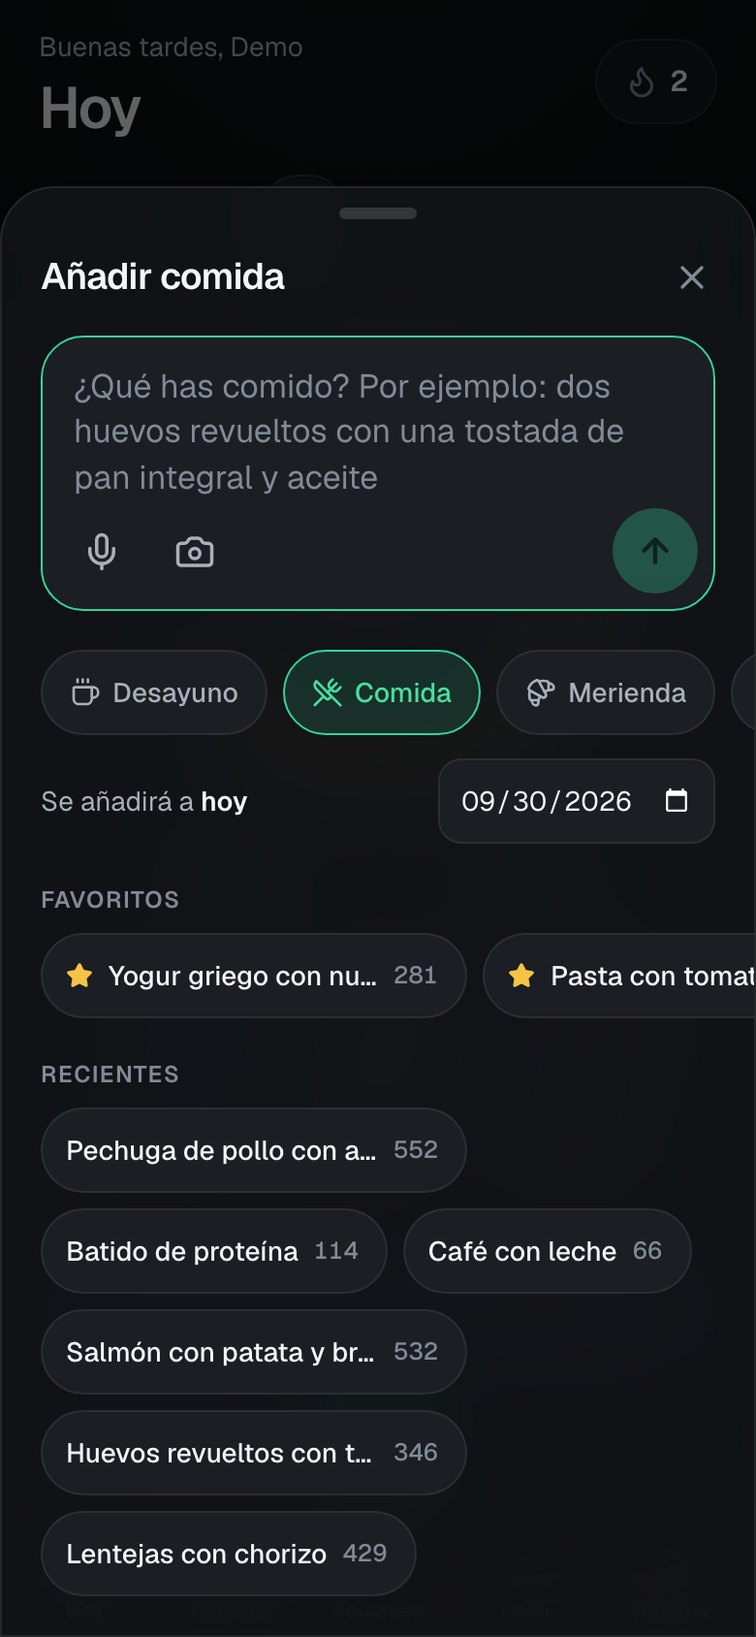
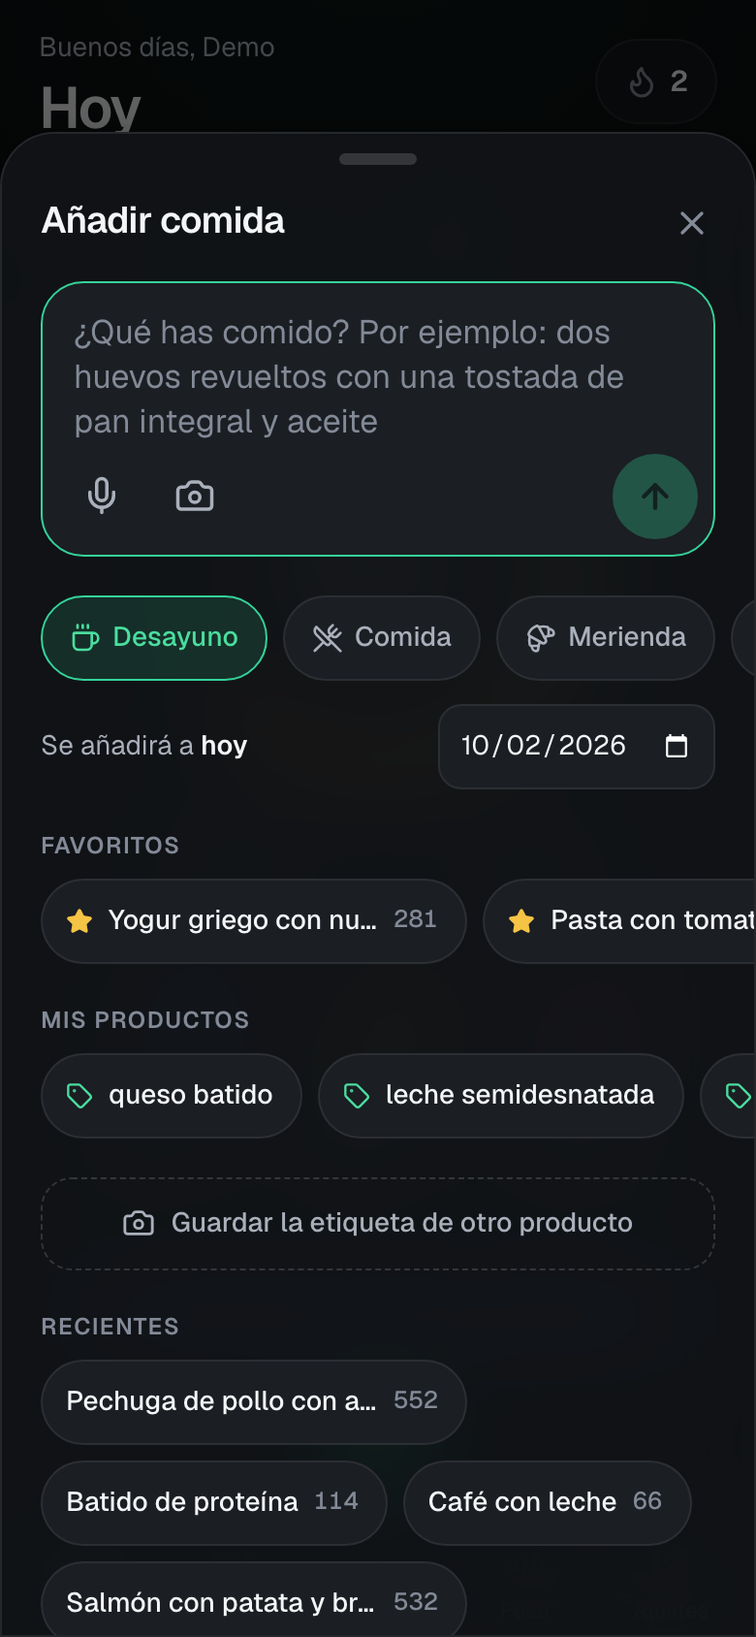
docs: productos con etiqueta en el README, capturas y GIF nuevos; etiquetas a dos decimales
- README: función, diagrama del ahorro de IA con el paso de productos, capturas y pruebas
- Las cifras de la etiqueta conservan dos decimales (0,12 g de sal) y las kcal calculadas desde kJ
  se redondean a entero, como se imprimen
- Etiquetas de prueba de leche y queso; la IA simulada devuelve la etiqueta que se le pida

diff --git a/frontend/src/components/ProductSheet.tsx b/frontend/src/components/ProductSheet.tsx
@@ -122,7 +122,7 @@ function NumberBox({
           invalid ? 'border-warn' : 'border-border',
         )}
       >
-        <NumberInput value={value} onChange={onChange} decimals={1} min={0} max={max} ariaLabel={label} className="h-full min-w-0 flex-1 text-text" />
+        <NumberInput value={value} onChange={onChange} decimals={2} min={0} max={max} ariaLabel={label} className="h-full min-w-0 flex-1 text-text" />
         <span className="ml-1.5 text-[13.5px] text-text-3">{suffix}</span>
       </span>
     </label>

diff --git a/scripts/capture_screenshots.py b/scripts/capture_screenshots.py
@@ -9,6 +9,7 @@ en un móvil de 390 px, en oscuro y en claro. Los datos de las capturas son de d
 y no salen de esta máquina: nada de esto se usa en producción.
 """
 
+import json
 import os
 import random
 import shutil
@@ -21,12 +22,16 @@ from pathlib import Path
 
 ROOT = Path(__file__).resolve().parent.parent
 sys.path.insert(0, str(ROOT / "e2e"))
+sys.path.insert(0, str(ROOT / "scripts"))
 
+import httpx  # noqa: E402
 from conftest import DIST, free_port, wait_for  # noqa: E402
+from make_label_photo import make as make_label  # noqa: E402
 from playwright.sync_api import Page, sync_playwright  # noqa: E402
 
 OUT = ROOT / "docs" / "screenshots"
 PASSWORD = "demo-password-1"
+AI_URL = ""  # se rellena al arrancar: la IA simulada que lee las etiquetas
 MOBILE = {"width": 390, "height": 844}
 
 # Comidas de la despensa de demostración: la IA simulada las conoce por palabras clave.
@@ -64,7 +69,7 @@ def start_servers() -> tuple[dict, list[subprocess.Popen], Path]:
     ]
     wait_for(f"http://127.0.0.1:{ai_port}/calls")
     wait_for(f"http://127.0.0.1:{app_port}/api/health")
-    return {"app": f"http://127.0.0.1:{app_port}"}, procs, data
+    return {"app": f"http://127.0.0.1:{app_port}", "ai": f"http://127.0.0.1:{ai_port}"}, procs, data
 
 
 def onboard(page: Page, base: str, out: Path) -> None:
@@ -151,6 +156,19 @@ def seed(page: Page, base: str) -> None:
     for dish in rq.get(f"{base}/api/dishes").json()["dishes"][:3]:
         rq.patch(f"{base}/api/dishes/{dish['id']}", data={"favorite": True})
     rq.post(f"{base}/api/targets/recalculate")
+    for kind in ("yogur", "leche", "queso"):
+        add_product(page, base, kind)
+
+
+def add_product(page: Page, base: str, kind: str) -> None:
+    """Lee la etiqueta (IA simulada) y guarda el producto con su foto, como hace la app."""
+    rq = page.request
+    httpx.post(f"{AI_URL}/next-label", params={"kind": kind})
+    photo = {"name": "etiqueta.jpg", "mimeType": "image/jpeg", "buffer": make_label(kind)}
+    draft = rq.post(f"{base}/api/products/scan", multipart={"image": photo}).json()["draft"]
+    fields = ("name", "alias", "basis", "kcal100", "protein100", "carbs100", "fat100", "fiber100", "sugars100", "salt100", "unit_label", "unit_grams")
+    created = rq.post(f"{base}/api/products", multipart={"data": json.dumps({k: draft[k] for k in fields}), "image": photo})
+    assert created.status == 201, created.text()
 
 
 def capture_theme(browser, base: str, theme: str) -> None:
@@ -184,6 +202,26 @@ def capture_theme(browser, base: str, theme: str) -> None:
         page.get_by_role("heading", name=name, exact=True).wait_for()
         page.wait_for_timeout(2400)
         page.screenshot(path=str(out / f"{file}.png"))
+
+    # Productos: la lista con la foto de cada etiqueta, la hoja de revisión y «dos yogures ligeros».
+    page.get_by_role("link", name="Historial").click()
+    page.get_by_role("radio", name="Productos").click()
+    page.get_by_text("Tus productos").wait_for()
+    page.wait_for_timeout(1800)
+    page.screenshot(path=str(out / "09-productos.png"))
+    page.get_by_text("Yogur desnatado ligero sabor limón").first.click()
+    page.get_by_role("heading", name="Editar producto").wait_for()
+    page.wait_for_timeout(1200)
+    page.screenshot(path=str(out / "10-etiqueta.png"))
+    page.keyboard.press("Escape")
+    page.wait_for_timeout(500)
+    page.get_by_role("link", name="Hoy").click()
+    page.get_by_role("button", name="Añadir comida").last.click()
+    page.locator("#meal-text").fill("dos yogures ligeros con una manzana")
+    page.get_by_role("button", name="Analizar comida").click()
+    page.get_by_role("heading", name="Revisa y guarda").wait_for()
+    page.wait_for_timeout(1400)
+    page.screenshot(path=str(out / "11-dos-yogures.png"))
     context.close()
 
 
@@ -231,6 +269,68 @@ def record_gif(browser, base: str) -> None:
     print(f"· {gif.relative_to(ROOT)} ({gif.stat().st_size / 1024:.0f} KB)")
 
 
+def record_label_gif(browser, base: str) -> None:
+    """Graba el flujo de productos: foto de la etiqueta -> lectura -> revisión -> «tres galletas integrales»."""
+    video_dir = Path(tempfile.mkdtemp(prefix="kcalia-video-"))
+    photo = Path(tempfile.mkdtemp(prefix="kcalia-label-")) / "etiqueta.jpg"
+    photo.write_bytes(make_label("galletas"))
+    httpx.post(f"{AI_URL}/next-label", params={"kind": "galletas"})
+    context = browser.new_context(
+        viewport=MOBILE, device_scale_factor=1, is_mobile=True, has_touch=True, locale="es-ES", timezone_id="Europe/Madrid",
+        record_video_dir=str(video_dir), record_video_size=MOBILE,
+    )
+    context.set_default_timeout(20_000)
+    context.add_init_script("localStorage.setItem('kcalia:theme', 'dark')")
+    page = context.new_page()
+    page.goto(base)
+    page.locator("input[name=username]").fill("demo")
+    page.locator("input[name=password]").fill(PASSWORD)
+    page.get_by_role("button", name="Entrar").click()
+    page.locator("main").wait_for()
+    page.wait_for_timeout(1800)
+
+    page.get_by_role("link", name="Historial").click()
+    page.get_by_role("radio", name="Productos").click()
+    page.get_by_text("Tus productos").wait_for()
+    page.wait_for_timeout(1500)
+    page.get_by_role("button", name="Añadir", exact=True).click()
+    page.get_by_text("Hacer foto a la etiqueta").wait_for()
+    page.wait_for_timeout(1700)
+    page.locator("input[type=file]:not([capture])").set_input_files(str(photo))
+    page.get_by_role("heading", name="Revisa la etiqueta").wait_for()
+    page.wait_for_timeout(2800)
+    page.get_by_role("button", name="Guardar producto").click()
+    page.get_by_text("Guardado: galletas integrales").wait_for()
+    page.wait_for_timeout(1500)
+
+    page.get_by_role("link", name="Hoy").click()
+    page.wait_for_timeout(900)
+    page.get_by_role("button", name="Añadir comida").last.click()
+    page.locator("#meal-text").wait_for()
+    page.wait_for_timeout(500)
+    page.locator("#meal-text").press_sequentially("tres galletas integrales", delay=70)
+    page.wait_for_timeout(500)
+    page.get_by_role("button", name="Analizar comida").click()
+    page.get_by_text("Sin IA · con tu etiqueta").wait_for()
+    page.wait_for_timeout(2600)
+    page.get_by_role("button", name=" Guardar ·").click()
+    page.wait_for_timeout(2200)
+    context.close()
+
+    video = next(video_dir.glob("*.webm"))
+    gif = ROOT / "docs" / "demo-etiqueta.gif"
+    subprocess.run(
+        [
+            "ffmpeg", "-y", "-loglevel", "error", "-ss", "1.8", "-i", str(video),
+            "-vf", "fps=10,scale=280:-1:flags=lanczos,split[a][b];[a]palettegen=max_colors=80:stats_mode=diff[p];[b][p]paletteuse=dither=bayer:bayer_scale=5",
+            str(gif),
+        ],
+        check=True,
+    )
+    shutil.rmtree(video_dir, ignore_errors=True)
+    print(f"· {gif.relative_to(ROOT)} ({gif.stat().st_size / 1024:.0f} KB)")
+
+
 def build_hero() -> None:
     """Cuatro pantallas en oscuro y cuatro en claro, en una sola imagen para la cabecera del README."""
     from PIL import Image, ImageDraw, ImageFilter
@@ -267,8 +367,9 @@ def main() -> None:
         raise SystemExit("Falta el frontend compilado: cd frontend && npm run build")
     shutil.rmtree(OUT, ignore_errors=True)
     OUT.mkdir(parents=True, exist_ok=True)
+    global AI_URL
     servers, procs, data = start_servers()
-    base = servers["app"]
+    base, AI_URL = servers["app"], servers["ai"]
     try:
         with sync_playwright() as p:
             browser = p.chromium.launch()
@@ -285,6 +386,7 @@ def main() -> None:
             capture_theme(browser, base, "light")
             # El GIF va al final para que "ensalada de atún" siga siendo nueva en las capturas.
             record_gif(browser, base)
+            record_label_gif(browser, base)
             browser.close()
         build_hero()
     finally:

diff --git a/e2e/fake_ai.py b/e2e/fake_ai.py
@@ -152,18 +152,28 @@ def plain(text: str) -> str:
     return "".join(c for c in text if unicodedata.category(c) != "Mn")
 
 
-LABEL = {
-    "is_label": True, "name": "Yogur desnatado ligero sabor limón", "short_name": "yogur ligero", "basis": "g",
-    "kcal100": 44, "energy_kj100": 187, "protein100": 4.1, "carbs100": 6.5, "fat100": 0.1, "fiber100": None,
-    "sugars100": 6.2, "salt100": 0.12, "serving_g": 125, "serving_label": "yogur", "per_serving": None,
-    "confidence": 0.93, "notes": [],
+def label(name, short, basis, kcal, kj, protein, carbs, fat, fiber, sugars, salt, serving_g, serving_label):
+    return {
+        "is_label": True, "name": name, "short_name": short, "basis": basis, "kcal100": kcal, "energy_kj100": kj,
+        "protein100": protein, "carbs100": carbs, "fat100": fat, "fiber100": fiber, "sugars100": sugars,
+        "salt100": salt, "serving_g": serving_g, "serving_label": serving_label, "per_serving": None,
+        "confidence": 0.94, "notes": [],
+    }
+
+
+LABELS = {
+    "yogur": label("Yogur desnatado ligero sabor limón", "yogur ligero", "g", 44, 187, 4.1, 6.5, 0.1, None, 6.2, 0.12, 125, "yogur"),
+    "galletas": label("Galletas integrales con avena", "galletas integrales", "g", 440, 1850, 7.5, 68, 14, 6.4, 19, 0.68, 12, "galleta"),
+    "leche": label("Leche semidesnatada", "leche semidesnatada", "ml", 46, 192, 3.2, 4.7, 1.6, None, 4.7, 0.1, 200, "vaso"),
+    "queso": label("Queso fresco batido 0 %", "queso batido", "g", 46, 192, 8.0, 3.5, 0.2, None, 3.5, 0.18, 250, "tarrina"),
 }
+NEXT_LABEL = ["yogur"]  # qué etiqueta devuelve la siguiente lectura (POST /next-label?kind=galletas)
 
 
 def answer(messages: list[dict]) -> dict:
     # La lectura de etiquetas usa otro prompt de sistema: responde con la tabla de un yogur ligero.
     if messages and messages[0]["role"] == "system" and "etiquetas nutricionales" in str(messages[0]["content"]):
-        return LABEL
+        return LABELS[NEXT_LABEL[0]]
     content = messages[-1]["content"]
     # La petición de reintento ("no cumple el esquema") se responde con la comida original.
     for message in reversed(messages):
@@ -207,6 +217,12 @@ async def chat(request: Request):
 async def transcribe():
     CALLS["stt"] += 1
     return {"text": "Un yogur griego con nueces"}
+
+
+@app.post("/next-label")
+def next_label(kind: str = "yogur"):
+    NEXT_LABEL[0] = kind if kind in LABELS else "yogur"
+    return {"next": NEXT_LABEL[0]}
 
 
 @app.get("/calls")

diff --git a/scripts/make_label_photo.py b/scripts/make_label_photo.py
@@ -23,6 +23,33 @@ PRODUCTS = {
         ],
         "extra": "1 yogur = 125 g",
     },
+    "leche": {
+        "title": "Leche semidesnatada",
+        "per": "100 ml",
+        "rows": [
+            ("Valor energético", "192 kJ / 46 kcal"),
+            ("Grasas", "1,6 g"),
+            ("  de las cuales saturadas", "1,1 g"),
+            ("Hidratos de carbono", "4,7 g"),
+            ("  de los cuales azúcares", "4,7 g"),
+            ("Proteínas", "3,2 g"),
+            ("Sal", "0,10 g"),
+        ],
+        "extra": "1 vaso = 200 ml",
+    },
+    "queso": {
+        "title": "Queso fresco batido 0 %",
+        "rows": [
+            ("Valor energético", "192 kJ / 46 kcal"),
+            ("Grasas", "0,2 g"),
+            ("  de las cuales saturadas", "0,1 g"),
+            ("Hidratos de carbono", "3,5 g"),
+            ("  de los cuales azúcares", "3,5 g"),
+            ("Proteínas", "8,0 g"),
+            ("Sal", "0,18 g"),
+        ],
+        "extra": "Tarrina: 250 g",
+    },
     "galletas": {
         "title": "Galletas integrales con avena",
         "rows": [
@@ -58,7 +85,7 @@ def make(kind: str = "yogur", seed: int = 4) -> bytes:
     d = ImageDraw.Draw(box)
     d.rectangle((60, 60, w - 60, h - 60), fill=(252, 251, 247), outline=(30, 30, 30), width=5)
     d.text((100, 100), "INFORMACIÓN NUTRICIONAL", font=font(46, True), fill=(20, 20, 20))
-    d.text((100, 168), "Valores medios por 100 g", font=font(34), fill=(40, 40, 40))
+    d.text((100, 168), f"Valores medios por {spec.get('per', '100 g')}", font=font(34), fill=(40, 40, 40))
     d.line((100, 224, w - 100, 224), fill=(20, 20, 20), width=6)
     y = 250
     for label, value in spec["rows"]:

diff --git a/backend/app/ai.py b/backend/app/ai.py
@@ -172,7 +172,7 @@ def finalize_label(draft: LabelDraft) -> dict:
     basis = draft.basis if draft.basis in ("g", "ml") else "g"
 
     if per100["kcal100"] is None and draft.energy_kj100:
-        per100["kcal100"] = draft.energy_kj100 / KCAL_PER_KJ
+        per100["kcal100"] = round(draft.energy_kj100 / KCAL_PER_KJ)  # las etiquetas imprimen kcal enteras
         warnings.append("Las calorías se han calculado a partir de los kJ de la etiqueta.")
 
     serving = draft.per_serving or {}
@@ -198,7 +198,8 @@ def finalize_label(draft: LabelDraft) -> dict:
             draft.confidence = min(draft.confidence, 0.55)
 
     def clean(value):
-        return None if value is None else round(float(value), 1)
+        # Dos decimales: las etiquetas traen cifras como 0,12 g de sal o 0,07 g de grasa.
+        return None if value is None else round(float(value), 2)
 
     label = (draft.serving_label or "").strip().lower()
     unit_grams = clean(draft.serving_g) if draft.serving_g and draft.serving_g > 0 else None

diff --git a/backend/tests/test_api_products.py b/backend/tests/test_api_products.py
@@ -156,7 +156,7 @@ def test_solo_kj_y_solo_por_porcion_se_convierten_con_aviso(client, fake):
             "per_serving": {"kcal": 120, "protein": 3, "carbs": 18, "fat": 4},
         },
     )["draft"]
-    assert (porcion["kcal100"], porcion["protein100"], porcion["carbs100"], porcion["fat100"]) == (400, 10, 60, 13.3)
+    assert (porcion["kcal100"], porcion["protein100"], porcion["carbs100"], porcion["fat100"]) == (400, 10, 60, 13.33)
     assert any("por porción" in w for w in porcion["warnings"])
 
 

diff --git a/README.md b/README.md
@@ -26,6 +26,7 @@ Cuenta lo que comes con una frase, una foto o un audio. Lo que repites se recuer
 Kcalia es una PWA para uso personal, en español y pensada primero para el móvil. Se instala en el iPhone o en Android como una app más, funciona sin conexión para lo que ya conoce y vive en tu propio servidor: tus datos no salen de ahí.
 
 <div align="center">
+<img src="docs/demo-etiqueta.gif" width="280" alt="Animación: se fotografía la etiqueta de unas galletas, la app la lee, se guarda y «tres galletas integrales» se calcula con esas cifras sin consultar a la IA" />
 <img src="docs/demo.gif" width="300" alt="Animación: se escribe «bocadillo de jamón serrano con tomate y aceite», la IA devuelve el desglose, se sube la ración a ×1,5 y se guarda" />
 </div>
 
@@ -55,6 +56,7 @@ Kcalia es una PWA para uso personal, en español y pensada primero para el móvi
 - **Texto libre.** «Dos huevos revueltos con una tostada de pan integral y aceite» se convierte en ingredientes con gramos, calorías, proteínas, hidratos y grasas. Antes de guardar ves el desglose y puedes corregir cualquier cantidad.
 - **Foto.** La imagen se reduce en el móvil y el modelo de visión estima el plato. Puedes añadir una nota («era media ración»).
 - **Voz.** Grabas, se transcribe con un Whisper propio que corre en tu servidor (unos 4-5 segundos por frase en CPU) y el texto sigue el mismo camino que si lo hubieras escrito.
+- **Productos con etiqueta.** Haces una foto a la tabla nutricional de un envase (yogures, galletas, una bebida…). La IA la lee, la revisas con la foto al lado y queda guardada. Desde entonces «dos yogures ligeros» usa sus calorías y macros exactos multiplicados por dos. Cada producto guarda lo que pesa una unidad, así que «tres galletas» también cuadra.
 - **Momento del día** detectado por la hora (desayuno, comida, merienda, cena, snack) y editable.
 - **Raciones** ×0,5, ×1, ×1,5, ×2 o a medida, y gramos por ingrediente: todo se recalcula en el móvil, sin IA.
 - **Favoritos y recientes** a un toque.
@@ -73,7 +75,7 @@ Kcalia es una PWA para uso personal, en español y pensada primero para el móvi
 - **PWA**: instalable, con iconos y pantallas de arranque para iOS, tema claro, oscuro o automático, y áreas seguras del notch.
 - **Sin conexión**: el diario, el historial y los resúmenes se ven igual. Las comidas que ya conoce se añaden y se sincronizan al volver la red; las nuevas avisan de que necesitan conexión.
 - **Una sola cuenta**: inicio de sesión con contraseña cifrada (Argon2) y registro que se cierra al crear la cuenta.
-- **Tus datos son tuyos**: exportación a JSON y CSV, y borrado de datos o de la cuenta desde Ajustes.
+- **Tus datos son tuyos**: exportación a JSON y CSV, y borrado de datos o de la cuenta desde Ajustes. Las fotos de las etiquetas se guardan en tu propia base de datos (y en sus copias de seguridad); la exportación JSON incluye los productos pero no las fotos.
 
 ## Capturas
 
@@ -83,14 +85,19 @@ Kcalia es una PWA para uso personal, en español y pensada primero para el móvi
 | **Revisar y guardar** | <img src="docs/screenshots/dark/03-resultado.png" width="240" alt="Desglose de una comida en modo oscuro" /> | <img src="docs/screenshots/light/03-resultado.png" width="240" alt="Desglose de una comida en modo claro" /> |
 | **Historial** | <img src="docs/screenshots/dark/04-historial.png" width="240" alt="Historial con gráficas en modo oscuro" /> | <img src="docs/screenshots/light/04-historial.png" width="240" alt="Historial con gráficas en modo claro" /> |
 | **Resumen semanal** | <img src="docs/screenshots/dark/05-resumen.png" width="240" alt="Resumen semanal en modo oscuro" /> | <img src="docs/screenshots/light/05-resumen.png" width="240" alt="Resumen semanal en modo claro" /> |
+| **Productos** | <img src="docs/screenshots/dark/09-productos.png" width="240" alt="Lista de productos con la foto de su etiqueta, en modo oscuro" /> | <img src="docs/screenshots/light/09-productos.png" width="240" alt="Lista de productos con la foto de su etiqueta, en modo claro" /> |
 | **Peso** | <img src="docs/screenshots/dark/06-peso.png" width="240" alt="Seguimiento de peso en modo oscuro" /> | <img src="docs/screenshots/light/06-peso.png" width="240" alt="Seguimiento de peso en modo claro" /> |
 
 <details>
-<summary>Más pantallas: acceso, plan, añadir comida y ajustes</summary>
+<summary>Más pantallas: acceso, plan, añadir comida, etiqueta de un producto y ajustes</summary>
 
 | Acceso | Tu plan | Añadir comida | Ajustes |
 |---|---|---|---|
-| <img src="docs/screenshots/dark/00-acceso.png" width="200" alt="Inicio de sesión con la opción de crear cuenta" /> | <img src="docs/screenshots/dark/08-plan.png" width="200" alt="Plan calculado tras el cuestionario inicial" /> | <img src="docs/screenshots/dark/02-anadir.png" width="200" alt="Hoja para añadir comida con favoritos y recientes" /> | <img src="docs/screenshots/dark/07-ajustes.png" width="200" alt="Ajustes" /> |
+| <img src="docs/screenshots/dark/00-acceso.png" width="200" alt="Inicio de sesión con la opción de crear cuenta" /> | <img src="docs/screenshots/dark/08-plan.png" width="200" alt="Plan calculado tras el cuestionario inicial" /> | <img src="docs/screenshots/dark/02-anadir.png" width="200" alt="Hoja para añadir comida con favoritos, productos y recientes" /> | <img src="docs/screenshots/dark/07-ajustes.png" width="200" alt="Ajustes" /> |
+
+| Etiqueta leída | «Dos yogures ligeros con una manzana» |
+|---|---|
+| <img src="docs/screenshots/dark/10-etiqueta.png" width="240" alt="Revisión de la etiqueta de un yogur con su foto, las cifras leídas y la vista previa de cómo contará dos unidades" /> | <img src="docs/screenshots/dark/11-dos-yogures.png" width="240" alt="Resultado de escribir dos yogures ligeros con una manzana: el yogur sale de la etiqueta guardada y la manzana de la IA" /> |
 
 </details>
 
@@ -108,8 +115,10 @@ flowchart TD
     B -- No --> C{"¿Se parece ≥ 0,85<br/>a alguna?"}
     C -- Sí --> Q["«¿Es esta comida?»"]
     Q -- "Sí, es esta" --> OK2["Se añade y se recuerda<br/>esa forma de escribirla"]
-    Q -- "No, es otra" --> D
-    C -- No --> D{"¿Todos los ingredientes<br/>están en la caché?"}
+    Q -- "No, es otra" --> P
+    C -- No --> P{"¿Alguna parte es un producto<br/>con etiqueta guardada?"}
+    P -- "Todo cubierto" --> OK4["Se multiplica la etiqueta<br/>por la cantidad"]
+    P -- "Solo parte, o nada" --> D{"¿Todos los ingredientes<br/>están en la caché?"}
     D -- Sí --> OK3["Se compone escalando<br/>cada ingrediente"]
     D -- No --> L{"¿Queda cupo<br/>diario de IA?"}
     L -- Sí --> IA["Consulta a la IA<br/>JSON validado, un reintento"]
@@ -119,10 +128,11 @@ flowchart TD
 
 1. **Coincidencia exacta.** El texto se normaliza (minúsculas, sin tildes, sin artículos ni signos, números y unidades en forma canónica) y se busca en tu historial. «Un café con leche» y «café con leche!» son la misma comida.
 2. **Coincidencia aproximada.** Si se parece mucho a algo que ya tienes (similitud ≥ 0,85), te lo pregunta con un toque. Hay dos salvaguardas para no confundir comidas distintas: las cantidades tienen que coincidir («2 huevos» no es «3 huevos») y cada palabra debe tener su pareja («pechuga de pollo» no es «pechuga de pavo»). Si dices que sí, esa forma de escribirla queda aprendida y la próxima vez es exacta.
-3. **Caché de ingredientes.** De cada respuesta de la IA se guardan los macros por 100 g de cada alimento y cuánto pesa su unidad habitual. Si ya se vio «2 huevos y una tostada de pan integral», «3 huevos» se resuelve escalando, sin preguntar.
-4. **IA**, solo si nada de lo anterior encaja, con un tope diario configurable (`AI_DAILY_LIMIT`).
+3. **Productos con etiqueta.** Si has guardado la etiqueta de «yogur ligero», «dos yogures ligeros» se calcula con sus cifras exactas por 2, sin IA. Si solo una parte es de un producto («dos yogures ligeros con una manzana»), lo del yogur sale de la etiqueta y a la IA solo va «una manzana». Esto también se resuelve en el móvil, sin conexión.
+4. **Caché de ingredientes.** De cada respuesta de la IA se guardan los macros por 100 g de cada alimento y cuánto pesa su unidad habitual. Si ya se vio «2 huevos y una tostada de pan integral», «3 huevos» se resuelve escalando, sin preguntar.
+5. **IA**, solo si nada de lo anterior encaja, con un tope diario configurable (`AI_DAILY_LIMIT`).
 
-Los pasos 1 y 2 también se hacen en el propio móvil, sobre el historial que ya tiene guardado: por eso son instantáneos y funcionan sin conexión. La normalización existe dos veces, en Python y en TypeScript, y ambas se prueban contra el mismo fichero de casos para que no diverjan.
+Los pasos 1, 2 y 3 también se hacen en el propio móvil, sobre el historial que ya tiene guardado: por eso son instantáneos y funcionan sin conexión. La normalización existe dos veces, en Python y en TypeScript, y ambas se prueban contra el mismo fichero de casos para que no diverjan.
 
 En **Ajustes** hay un contador de consultas ahorradas, desglosado por cada vía.
 
@@ -411,15 +421,17 @@ make e2e
 |---|---|---|
 | Metabolismo basal, objetivos, avisos de seguridad | `backend/tests/test_nutrition.py` | 24 |
 | Normalización, similitud y coincidencias | `backend/tests/test_textnorm.py`, `test_matching.py` | 69 |
+| Emparejar texto con productos de etiqueta y multiplicar | `backend/tests/test_products.py` | 33 |
+| API de productos: leer etiqueta, guardar con foto, usarla, borrar | `backend/tests/test_api_products.py` | 15 |
 | Resumen semanal, proyección, racha, media móvil, logros | `backend/tests/test_summary.py` | 12 |
-| Validación de la respuesta de la IA y cliente de voz | `backend/tests/test_ai.py` | 13 |
+| Validación de la IA (comidas y etiquetas), límites del proveedor y cliente de voz | `backend/tests/test_ai.py` | 25 |
 | API completa con IA simulada | `backend/tests/test_api.py` | 19 |
 | HTML servido y copias de seguridad | `backend/tests/test_spa.py`, `test_jobs.py` | 8 |
 | Audio de Chrome, Safari y Firefox decodificado para Whisper | `stt/test_audio.py` | 5 |
-| Formato es-ES, fechas, momentos del día, espejo de la normalización | `frontend/src/lib/*.test.ts` | 80 |
-| Flujo completo en un móvil de 390 px | `e2e/test_flow.py` | 9 |
+| Formato es-ES, fechas, momentos del día, espejo de la normalización y de los productos | `frontend/src/lib/*.test.ts` | 111 |
+| Flujo completo en un móvil de 390 px | `e2e/test_flow.py` | 10 |
 
-La prueba de extremo a extremo levanta la app real con una IA simulada (`e2e/fake_ai.py`) y recorre: acceso y creación de cuenta, cuestionario inicial, registrar una comida con IA, repetirla sin gastar IA, confirmar una parecida, apuntar el peso, ver el resumen, trabajar sin conexión y sincronizar al volver la red, y cerrar sesión. Comprueba además que la IA se llama exactamente las veces esperadas.
+La prueba de extremo a extremo levanta la app real con una IA simulada (`e2e/fake_ai.py`) y recorre: acceso y creación de cuenta, cuestionario inicial, registrar una comida con IA, repetirla sin gastar IA, confirmar una parecida, apuntar el peso, ver el resumen, trabajar sin conexión y sincronizar al volver la red, cerrar sesión y guardar el producto de una etiqueta para usarlo al apuntar (también sin conexión). Comprueba además que la IA se llama exactamente las veces esperadas.
 
 **Lighthouse**, siempre en primera visita y sin caché:
 
